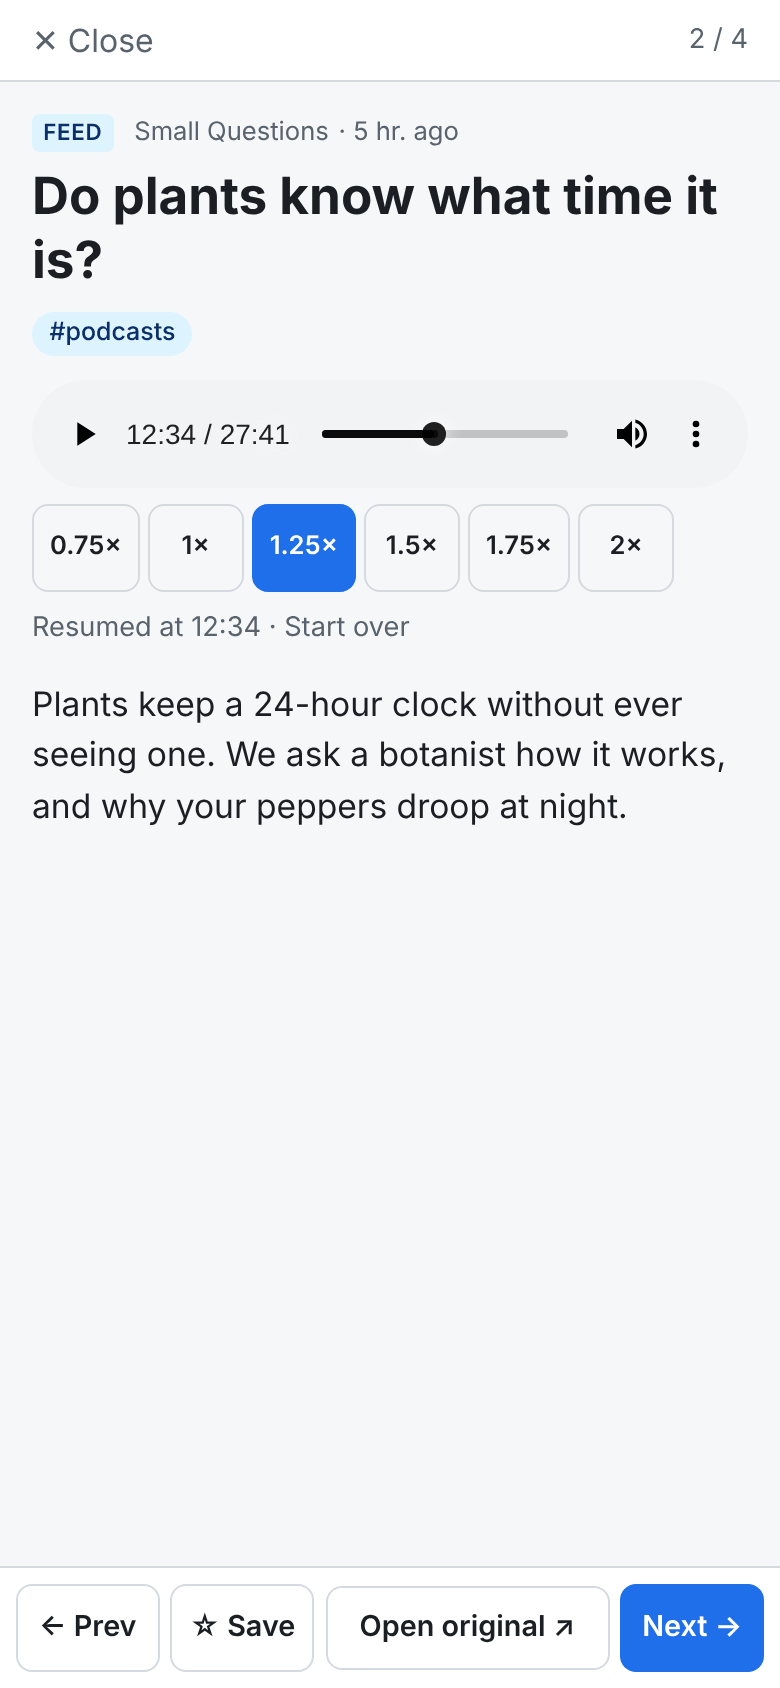
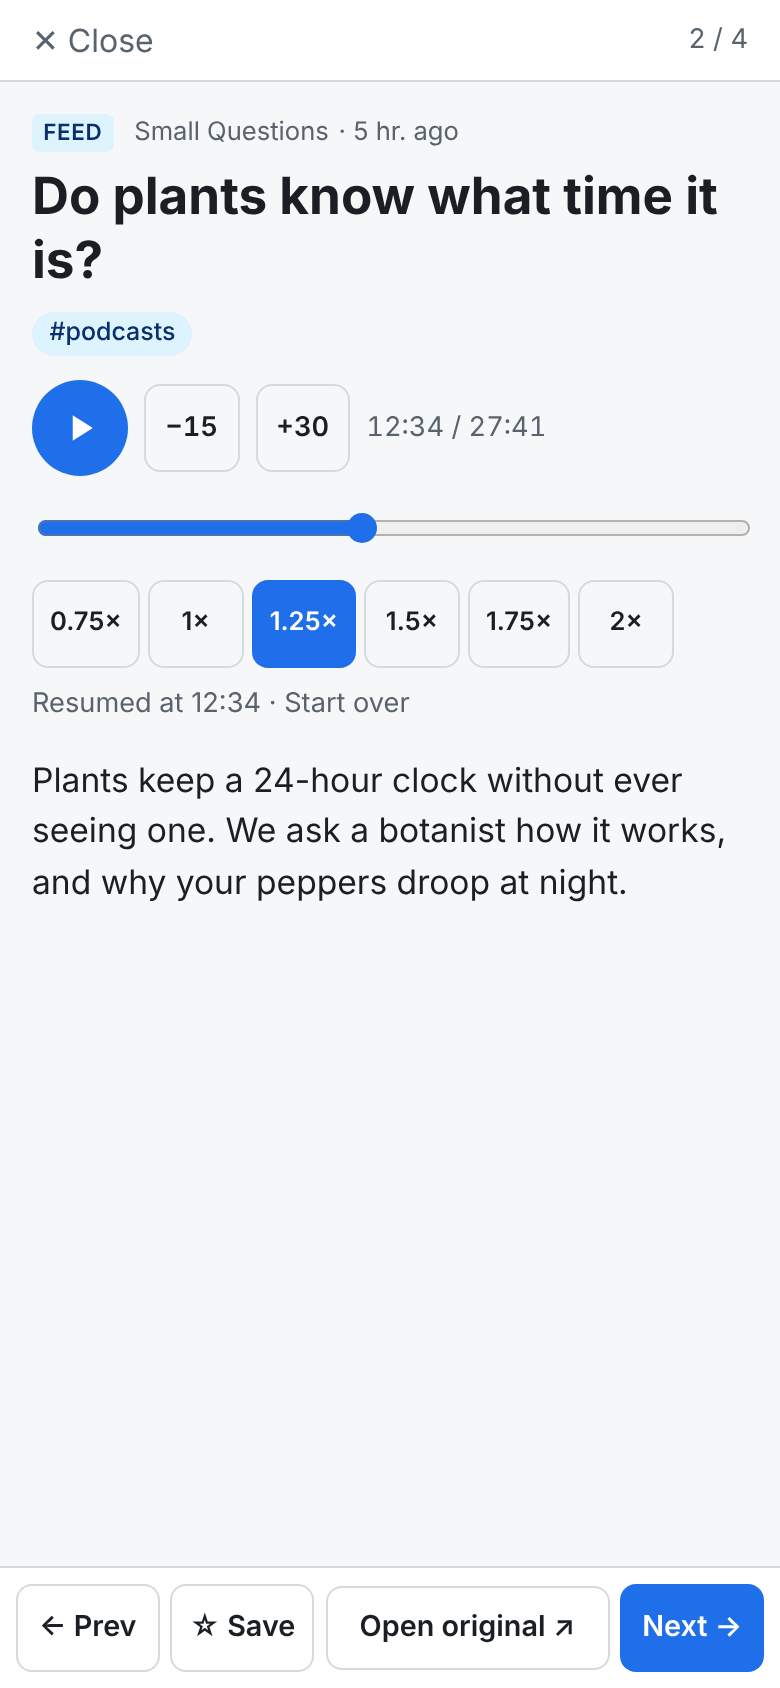
Podcast player: our own controls, visible in dark mode
Some phone browsers draw the built-in audio controls with dark icons on
no background, so in dark mode only a faint time showed. The player now
draws its own play/pause, back 15 s, forward 30 s, position slider and
time, in the app's colours, with a link to the file if it won't play.

Claude-Session: https://claude.ai/code/session_013n7Ts8KwQgqWBzeMWZHQwh

Changed region(s): [[0.0308, 0.2156, 0.9231, 0.5545], [0.8615, 0.3081, 0.8923, 0.3389], [0.8, 0.2464, 0.8308, 0.2773]]

diff --git a/packages/web/src/AudioPlayer.tsx b/packages/web/src/AudioPlayer.tsx
@@ -1,5 +1,7 @@
-// Podcast episodes in the reader (D-093): the browser's own audio player, a speed choice kept
-// per device, and the place you stopped kept per episode on this device.
+// Podcast episodes in the reader (D-093): a speed choice kept per device, and the place you
+// stopped kept per episode on this device. The controls are our own, not the browser's (D-113):
+// some phone browsers draw their built-in ones with dark icons on no background, which vanish on
+// a dark page.
 import { useEffect, useRef, useState } from "react";
 import type { ItemAudio } from "@fa/shared";
 import { PLAYBACK_RATES, usePrefs } from "./prefs";
@@ -10,6 +12,8 @@ const POSITIONS_KEY = "fa.audioPositions";
 const POSITIONS_KEPT = 200;
 /** Don't offer to resume within the first or last few seconds. */
 const EDGE_SECONDS = 10;
+const BACK_SECONDS = 15;
+const FORWARD_SECONDS = 30;
 
 type Positions = Record<string, { at: number; seconds: number }>;
 
@@ -40,6 +44,11 @@ export function AudioPlayer({ itemId, audio }: { itemId: string; audio: ItemAudi
   const ref = useRef<HTMLAudioElement>(null);
   const [prefs, setPrefs] = usePrefs();
   const [resumedAt, setResumedAt] = useState<number | null>(null);
+  const [playing, setPlaying] = useState(false);
+  const [waiting, setWaiting] = useState(false);
+  const [failed, setFailed] = useState(false);
+  const [position, setPosition] = useState(0);
+  const [duration, setDuration] = useState<number | null>(audio.durationSeconds);
   const lastSaved = useRef(0);
 
   useEffect(() => {
@@ -51,9 +60,11 @@ export function AudioPlayer({ itemId, audio }: { itemId: string; audio: ItemAudi
     const el = ref.current;
     if (!el) return;
     el.playbackRate = prefs.playbackRate;
+    if (Number.isFinite(el.duration) && el.duration > 0) setDuration(el.duration);
     const saved = readPositions()[itemId]?.seconds;
     if (saved && saved > EDGE_SECONDS && (!Number.isFinite(el.duration) || saved < el.duration - EDGE_SECONDS)) {
       el.currentTime = saved;
+      setPosition(saved);
       setResumedAt(saved);
     }
   };
@@ -64,23 +75,93 @@ export function AudioPlayer({ itemId, audio }: { itemId: string; audio: ItemAudi
     lastSaved.current = el.currentTime;
     writePosition(itemId, el.currentTime);
   };
+  const seek = (seconds: number) => {
+    const el = ref.current;
+    if (!el) return;
+    const end = duration ?? Infinity;
+    el.currentTime = Math.max(0, Math.min(seconds, end));
+    setPosition(el.currentTime);
+  };
+  const toggle = () => {
+    const el = ref.current;
+    if (!el) return;
+    if (el.paused) {
+      setFailed(false);
+      el.play().catch((err: unknown) => {
+        // AbortError: paused again before it started; not a failure.
+        if (!(err instanceof DOMException && err.name === "AbortError")) setFailed(true);
+      });
+    } else el.pause();
+  };
 
   return (
     <div className="audio">
       <audio
         ref={ref}
-        controls
         preload="metadata"
         src={audio.url}
         onLoadedMetadata={onLoadedMetadata}
-        onTimeUpdate={() => remember()}
-        onPause={() => remember(true)}
-        onEnded={() => writePosition(itemId, null)}
-      >
-        <a href={audio.url} target="_blank" rel="noopener noreferrer">
-          Download the episode
-        </a>
-      </audio>
+        onDurationChange={() => {
+          const d = ref.current?.duration;
+          if (d && Number.isFinite(d)) setDuration(d);
+        }}
+        onTimeUpdate={() => {
+          setPosition(ref.current?.currentTime ?? 0);
+          remember();
+        }}
+        onPlay={() => setPlaying(true)}
+        onPlaying={() => setWaiting(false)}
+        onWaiting={() => setWaiting(true)}
+        onPause={() => {
+          setPlaying(false);
+          setWaiting(false);
+          remember(true);
+        }}
+        onEnded={() => {
+          setPlaying(false);
+          writePosition(itemId, null);
+        }}
+        onError={() => {
+          setPlaying(false);
+          setWaiting(false);
+          setFailed(true);
+        }}
+      />
+      <div className="audio-main">
+        <button className="audio-play" onClick={toggle} aria-label={playing ? "Pause" : "Play"}>
+          {playing ? <PauseIcon /> : <PlayIcon />}
+        </button>
+        <button className="secondary audio-skip" onClick={() => seek(position - BACK_SECONDS)} aria-label={`Back ${BACK_SECONDS} seconds`}>
+          −{BACK_SECONDS}
+        </button>
+        <button className="secondary audio-skip" onClick={() => seek(position + FORWARD_SECONDS)} aria-label={`Forward ${FORWARD_SECONDS} seconds`}>
+          +{FORWARD_SECONDS}
+        </button>
+        <span className="audio-time small">
+          {clockLabel(position)}
+          {duration ? ` / ${clockLabel(duration)}` : ""}
+          {waiting && playing ? " · Loading…" : ""}
+        </span>
+      </div>
+      <input
+        type="range"
+        className="audio-seek"
+        aria-label="Position"
+        min={0}
+        max={duration ? Math.floor(duration) : 0}
+        step={1}
+        value={Math.floor(position)}
+        disabled={!duration}
+        onChange={(e) => seek(Number(e.target.value))}
+      />
+      {failed && (
+        <p className="small audio-error">
+          This episode wouldn't play here.{" "}
+          <a href={audio.url} target="_blank" rel="noopener noreferrer">
+            Open the audio file
+          </a>
+        </p>
+      )}
       <div className="audio-controls">
         <div className="audio-speeds" role="group" aria-label="Playback speed">
           {PLAYBACK_RATES.map((r) => (
@@ -95,7 +176,7 @@ export function AudioPlayer({ itemId, audio }: { itemId: string; audio: ItemAudi
             <button
               className="link"
               onClick={() => {
-                if (ref.current) ref.current.currentTime = 0;
+                seek(0);
                 writePosition(itemId, null);
                 setResumedAt(null);
               }}
@@ -106,5 +187,21 @@ export function AudioPlayer({ itemId, audio }: { itemId: string; audio: ItemAudi
         )}
       </div>
     </div>
+  );
+}
+
+function PlayIcon() {
+  return (
+    <svg viewBox="0 0 24 24" width="22" height="22" aria-hidden="true" fill="currentColor">
+      <path d="M8 5v14l11-7z" />
+    </svg>
+  );
+}
+
+function PauseIcon() {
+  return (
+    <svg viewBox="0 0 24 24" width="22" height="22" aria-hidden="true" fill="currentColor">
+      <path d="M6 5h4v14H6zM14 5h4v14h-4z" />
+    </svg>
   );
 }

diff --git a/packages/web/src/styles.css b/packages/web/src/styles.css
@@ -284,7 +284,13 @@ body.reader-open { overflow: hidden; }
 .load-next { margin: 1rem 0 0.5rem; display: grid; gap: 0.5rem; justify-items: center; }
 .load-next button { width: 100%; max-width: 22rem; }
 .audio { margin: 0.75rem 0; display: grid; gap: 0.5rem; }
-.audio audio { width: 100%; }
+.audio-main { display: flex; align-items: center; gap: 0.5rem; flex-wrap: wrap; }
+.audio-play { width: 48px; height: 48px; padding: 0; border-radius: 50%; display: inline-flex; align-items: center; justify-content: center; }
+.audio-skip { padding: 0.3rem 0.6rem; font-size: 0.85rem; font-variant-numeric: tabular-nums; }
+.audio-time { color: var(--muted); font-variant-numeric: tabular-nums; }
+/* The base input style (padding, border, background) would turn the slider into a text box. */
+.audio input.audio-seek { padding: 0; border: none; background: none; accent-color: var(--accent); min-height: 32px; }
+.audio-error { color: var(--danger); margin: 0; }
 .audio-controls { display: flex; flex-wrap: wrap; gap: 0.5rem 1rem; align-items: center; }
 .audio-speeds { display: flex; flex-wrap: wrap; gap: 0.25rem; }
 .audio-speeds button { padding: 0.2rem 0.5rem; font-size: 0.8rem; min-width: 3rem; }

diff --git a/packages/web/src/pages/Reader.tsx b/packages/web/src/pages/Reader.tsx
@@ -178,9 +178,8 @@ export function Reader({ mode, items, index, hasMore, onIndexChange, onLoadMore,
 
   useEffect(() => {
     const onKey = (e: KeyboardEvent) => {
+      // Includes the podcast player's position slider: arrow keys seek there instead of changing items.
       if (e.target instanceof HTMLInputElement || e.target instanceof HTMLSelectElement || e.target instanceof HTMLTextAreaElement) return;
-      // Arrow keys seek in a focused podcast player instead of changing items.
-      if (e.target instanceof HTMLMediaElement && e.key.startsWith("Arrow")) return;
       if (e.ctrlKey || e.metaKey || e.altKey) return;
       if (e.key === "ArrowRight" || e.key === "j") void go(1);
       else if (e.key === "ArrowLeft" || e.key === "k") void go(-1);

diff --git a/docs/DECISIONS.md b/docs/DECISIONS.md
@@ -6,6 +6,7 @@ Each entry records what was decided, who decided it, and why. Newest first withi
 
 | ID | Decision | Source | Rationale |
 |---|---|---|---|
+| D-113 | **Our own podcast controls instead of the browser's.** On the user's phone (dark mode) the built-in `<audio controls>` showed only a faint "0:00 / 3:01": the browser drew dark icons with no background, invisible on a dark page, and how built-in controls look isn't something a page can style reliably. Now the `<audio>` element has no controls and the app draws them: a round play/pause button, −15 s / +30 s, a position slider (`accent-color`), the time, "Loading…" while buffering, and "This episode wouldn't play here" with a link to the file on an error. Speed, resume and position saving are unchanged (D-093). Arrow keys on the slider seek (inputs are already ignored by the reader's keys); the separate rule for focused media elements was removed | User ("I think the podcast player broke") + Claude | Tested in Chromium at phone size, dark and light: play, skip, seek, pause saves the place, error message |
 | D-112 | Release **v1.10.0** (minor: login hardening, known devices, signed-in devices, README with screenshots; migrations 0013, 0014) | User | Follows RELEASING.md |
 | D-111 | **Known devices, so spam can't lock the owner out** (OWASP's "device cookies"). D-110's per-account limits meant anyone could make the owner wait by spamming wrong passwords. Now a browser gets a `fa_device` cookie (random, only its sha256 stored, HttpOnly, Secure behind HTTPS, SameSite=Lax, `Path=/api/auth`, a year) when the account is set up or after its first successful login; it grants nothing by itself. Wrong passwords and codes from a known device are counted on that device (same limits); everything else shares the account's counters. So attackers, who don't have the cookie, still hit the account-wide limits, and the owner's known devices aren't locked by them. Up to 20 known devices per account (least recently used dropped). Changing the password forgets every known device but the current one. Logging out keeps the cookie (the browser stays known). Limit: a brand-new browser during an attack waits like the attacker | User ("Why would login be blocked if someone is spamming? Can we fix that?") + Claude | Verified through the NPM stand-in: stranger locked after 5 codes, owner's browser logged in at once |
 | D-110 | **Two-factor and login hardening; behind Nginx Proxy Manager.** Reviewed the auth code (Argon2id, AES-GCM-encrypted TOTP secret, single-use codes via a conditional update, hashed session tokens, CSRF header, SameSite=Lax HttpOnly cookies: sound) and tested it through nginx configured like an NPM proxy host (HTTPS, NPM's proxy headers, Force SSL, Block Common Exploits). Found: login limits were only per client IP, and `TRUST_PROXY` (default: all private addresses) lets anyone at a trusted address set X-Forwarded-For, so 12 of 12 wrong codes with forged headers went through unlimited. Now, per account and stored (migration 0013): 5 wrong codes in a row lock codes for 15 min, doubling at every 5th, up to 24 h; 10 wrong passwords in a row make each try wait 1 min, doubling, up to 1 h; all password/code checks run one at a time, so parallel guesses can't outrun the locks; locked replies are 429 with Retry-After. Turning two-factor on or off signs out other devices; sessions end after `SESSION_MAX_DAYS` (90) even if used; Settings → Signed-in devices lists sessions (sign out one, or everywhere else) and shows what the app sees of the connection (HTTPS, client IP, trusted proxy or not). NPM docs: websockets off, `proxy_read_timeout 180s` for FlareSolverr adds, how to check, and narrowing `TRUST_PROXY` to NPM. Kept: the two-step login form says "enter your code" only after a right password (as most sites do); with the per-account limits that tells an attacker little. Default `TRUST_PROXY` kept, so existing setups keep working | User ("super secure", "work behind nginx proxy manager") + Claude | Verified: through the NPM stand-in the forged-header attack now locks after 5 codes |

diff --git a/CHANGELOG.md b/CHANGELOG.md
@@ -6,6 +6,9 @@ Docker images: `alexstapo/forumaggregator:<version>` and `ghcr.io/alexstapleton/
 
 ## [Unreleased]
 
+### Fixed
+- The podcast player's buttons were invisible in dark mode on some phone browsers, which draw their built-in audio controls with dark icons on no background. The player now has its own controls in the app's colours: play/pause, back 15 s, forward 30 s, a position slider and the time, plus a link to the audio file when it won't play (D-113).
+
 ## [1.10.0] - 2026-10-25
 
 Stronger login protection, signed-in devices, and a new README with screenshots. Upgrade with
